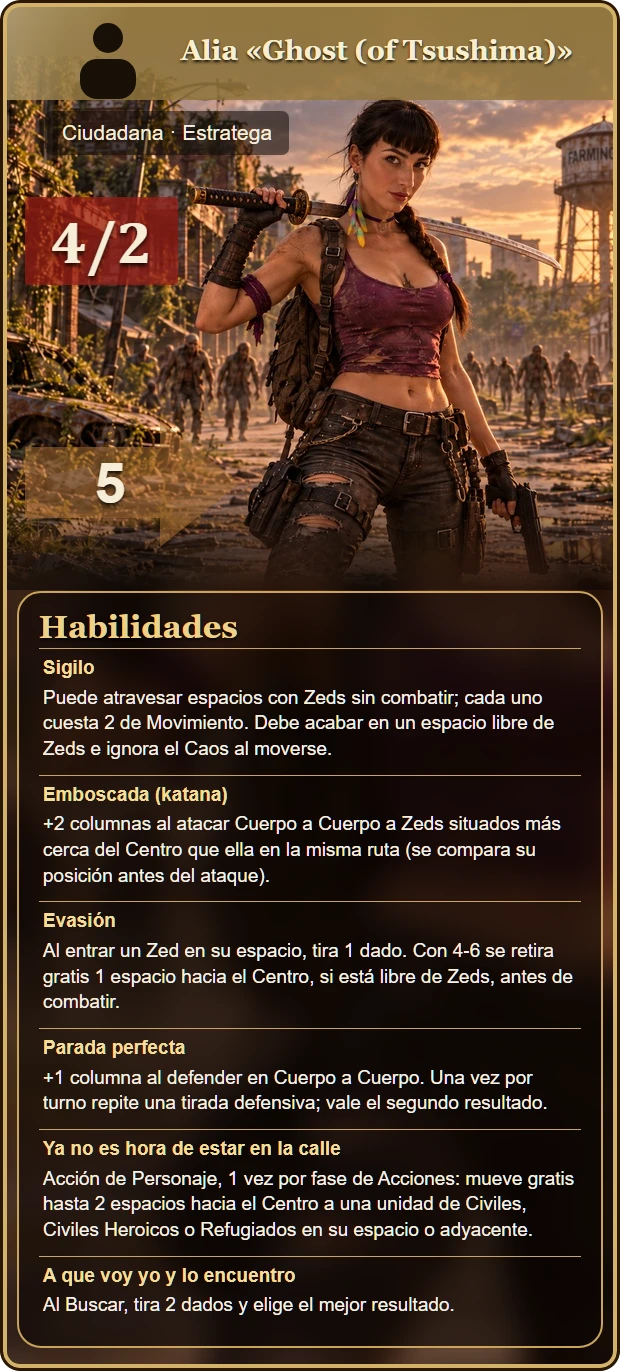
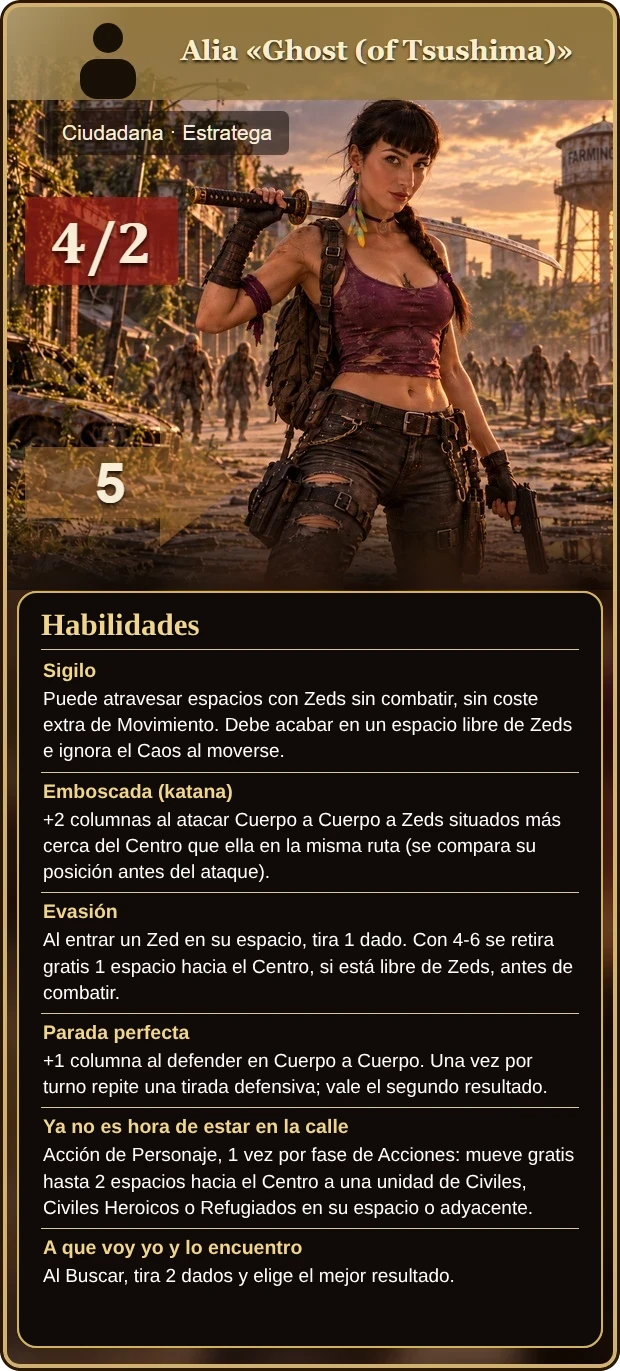
Carta de Alia (arte alternativo): Sigilo sin coste extra de Movimiento
Claude-Session: https://claude.ai/code/session_01KmRiLam16qxK6v4ebdfK1d

Changed region(s): [[0.0306, 0.4289, 0.9806, 0.9803], [0.95, 0.9497, 0.9806, 0.9803]]

diff --git a/sw.js b/sw.js
@@ -1,7 +1,7 @@
 /* Service worker: permite instalar la web como app y jugar sin conexión.
    Código (html/js/css): red primero, con copia local de reserva. Imágenes y audio: caché primero. */
 'use strict';
-const CACHE = 'doz3-v68';
+const CACHE = 'doz3-v69';
 const SHELL = ['./', 'index.html', 'style.css', 'manifest.webmanifest', 'icons/icon-192.png', 'icons/icon-512.png', 'assets/portada.jpg', 'assets/fondo_nueva.webp', 'assets/fondo_ranking.webp',
   'js/version.js', 'js/data.js', 'js/events.js', 'js/dest.js', 'js/evlog.js', 'js/preview.js', 'js/obituario.js', 'js/engine.js', 'js/game.js', 'js/phases.js', 'js/actions.js', 'js/cardtext.js', 'js/ui.js', 'js/anim.js',
   'js/expansions.js', 'js/expansions2.js', 'js/sfx.js', 'js/sound.js', 'js/opciones.js', 'js/voz.js', 'js/ost.js', 'assets/sonidos/letras/letras.js', 'assets/sonidos/efectos/sfx_disparo.mp3', 'assets/sonidos/efectos/sfx_disparo_largo.mp3', 'js/mapzoom.js', 'js/seedcode.js', 'js/save.js', 'js/main.js', 'js/bot.js'];

diff --git a/js/version.js b/js/version.js
@@ -1,2 +1,2 @@
 /* Fecha y hora de la última build (hora de Madrid). Se actualiza con cada cambio publicado. */
-const BUILD_TIME = '2026-11-01 07:00';
+const BUILD_TIME = '2026-11-01 07:30';

diff --git a/CHANGELOG.md b/CHANGELOG.md
@@ -2,6 +2,11 @@
 
 Registro de cambios por publicación (push a `main`). Lo más reciente, arriba. Cada entrada lleva la misma fecha y hora que `BUILD_TIME` de `js/version.js`.
 
+## 2026-11-01 07:30
+
+### Cambios
+- **Carta de Alia (arte alternativo):** el Sigilo ya dice «sin coste extra de Movimiento». La ilustración, la cabecera y las fichas de Fuerza y Movimiento se mantienen como estaban (`tools/generar_alia.mjs`). La carta del arte por defecto todavía muestra el texto antiguo.
+
 ## 2026-11-01 07:00
 
 ### Cambios
